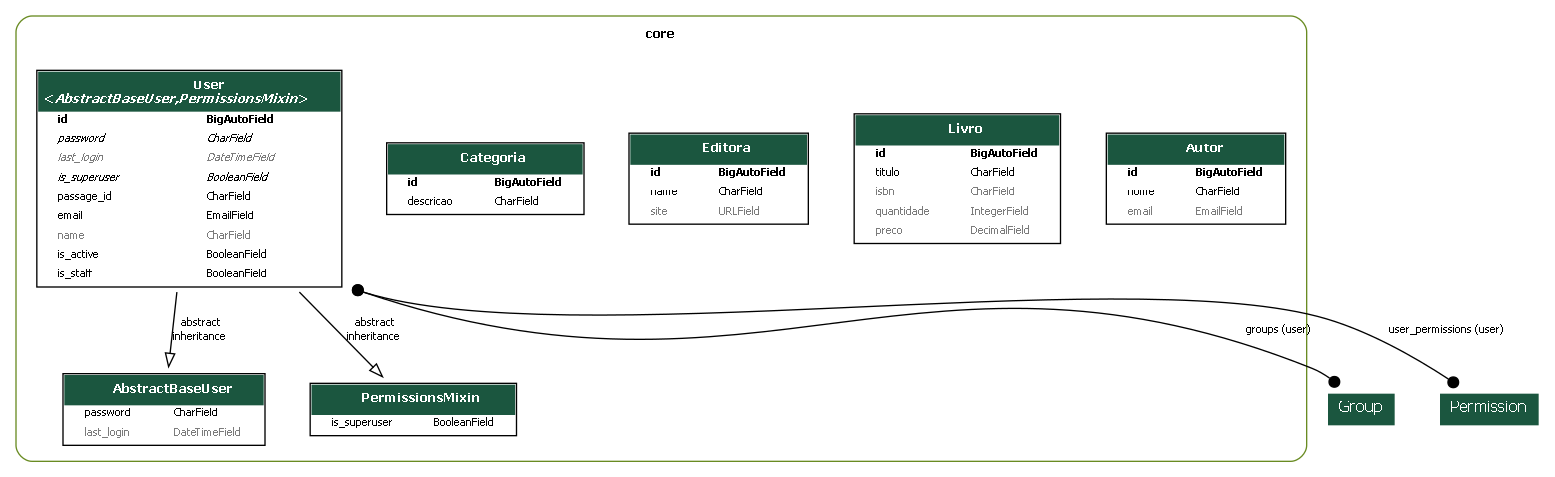
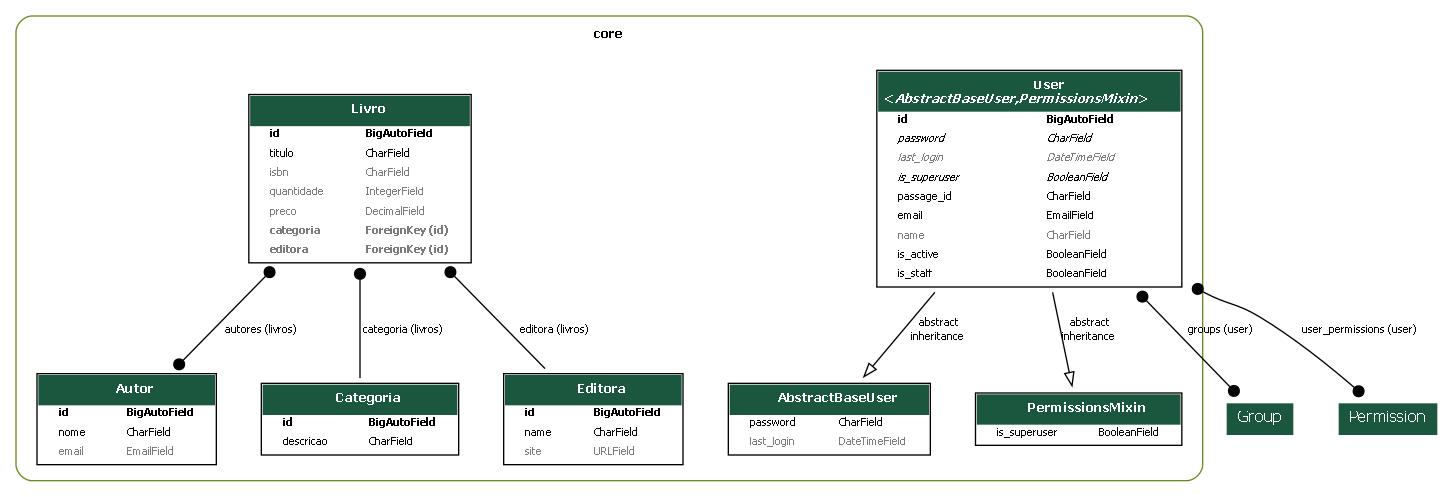
feat: criada api para livros e adicionado função para requisição de livros

diff --git a/core/migrations/0009_livro_autores_livro_categoria_livro_editora.py b/core/migrations/0009_livro_autores_livro_categoria_livro_editora.py
@@ -1,0 +1,29 @@
+# Generated by Django 5.1.7 on 2025-05-09 18:00
+
+import django.db.models.deletion
+from django.db import migrations, models
+
+
+class Migration(migrations.Migration):
+
+    dependencies = [
+        ('core', '0008_autor'),
+    ]
+
+    operations = [
+        migrations.AddField(
+            model_name='livro',
+            name='autores',
+            field=models.ManyToManyField(blank=True, related_name='livros', to='core.autor'),
+        ),
+        migrations.AddField(
+            model_name='livro',
+            name='categoria',
+            field=models.ForeignKey(blank=True, null=True, on_delete=django.db.models.deletion.PROTECT, related_name='livros', to='core.categoria'),
+        ),
+        migrations.AddField(
+            model_name='livro',
+            name='editora',
+            field=models.ForeignKey(blank=True, null=True, on_delete=django.db.models.deletion.PROTECT, related_name='livros', to='core.editora'),
+        ),
+    ]

diff --git a/app/urls.py b/app/urls.py
@@ -7,13 +7,15 @@ from drf_spectacular.views import (
 )
 from rest_framework.routers import DefaultRouter
 
-from core.views import CategoriaViewSet, UserViewSet, EditoraViewSet
+from core.views import CategoriaViewSet, UserViewSet, EditoraViewSet, LivroViewSet, AutorViewSet
 
 router = DefaultRouter()
 
 router.register(r'usuarios', UserViewSet, basename='usuarios')
 router.register(r'categorias', CategoriaViewSet, basename='categorias')
 router.register(r'editoras', EditoraViewSet, basename='editoras')
+router.register(r'livros', LivroViewSet, basename='livros')
+router.register(r'autores', AutorViewSet, basename='autores')
 
 urlpatterns = [
     path('admin/', admin.site.urls),

diff --git a/core/views/livro.py b/core/views/livro.py
@@ -1,7 +1,13 @@
 from rest_framework.viewsets import ModelViewSet
-from core.serializers import LivroSerializer
+from core.serializers import LivroSerializer, LivroListSerializer, LivroRetrieveSerializer 
 from core.models import Livro
 
 class LivroViewSet(ModelViewSet):
     queryset = Livro.objects.all()
-    serializer_class = LivroSerializer
+
+    def get_serializer_class(self):
+        if self.action == "list":
+            return LivroListSerializer
+        elif self.action == "retrieve":
+            return LivroRetrieveSerializer
+        return LivroSerializer

diff --git a/core/serializers/livro.py b/core/serializers/livro.py
@@ -5,3 +5,14 @@ class LivroSerializer(ModelSerializer):
     class Meta:
         model = Livro
         fields = '__all__'
+
+class LivroListSerializer(ModelSerializer):
+    class Meta:
+        model = Livro
+        fields = ("id", "titulo", "preco")
+
+class LivroRetrieveSerializer(ModelSerializer):
+    class Meta:
+        model = Livro
+        fields = "__all__"
+        depth = 1

diff --git a/core/serializers/__init__.py b/core/serializers/__init__.py
@@ -1,5 +1,5 @@
 from .user import UserSerializer
 from .categoria import CategoriaSerializer
 from .editora import EditoraSerializer
-from .livro import LivroSerializer
+from .livro import LivroRetrieveSerializer, LivroSerializer, LivroListSerializer
 from .autor import AutorSerializer

diff --git a/core/models/livro.py b/core/models/livro.py
@@ -1,5 +1,8 @@
 from django.db import models
-from core.models import Categoria, Editora, Autor
+
+from .autor import Autor
+from .categoria import Categoria
+from .editora import Editora
 
 class Livro(models.Model):
     titulo = models.CharField(max_length=255)

diff --git a/core/admin.py b/core/admin.py
@@ -53,3 +53,5 @@ class UserAdmin(BaseUserAdmin):
 admin.site.register(models.User, UserAdmin)
 admin.site.register(models.Categoria)
 admin.site.register(models.Editora)
+admin.site.register(models.Autor)
+admin.site.register(models.Livro)

diff --git a/core/views/__init__.py b/core/views/__init__.py
@@ -1,3 +1,5 @@
 from .user import UserViewSet
 from .categoria import CategoriaViewSet
 from .editora import EditoraViewSet
+from .livro import LivroViewSet
+from .autor import AutorViewSet

diff --git a/core/models/__init__.py b/core/models/__init__.py
@@ -1,5 +1,5 @@
 from .user import User
 from .categoria import Categoria
 from .editora import Editora
-from .livro import Livro
 from .autor import Autor
+from .livro import Livro
